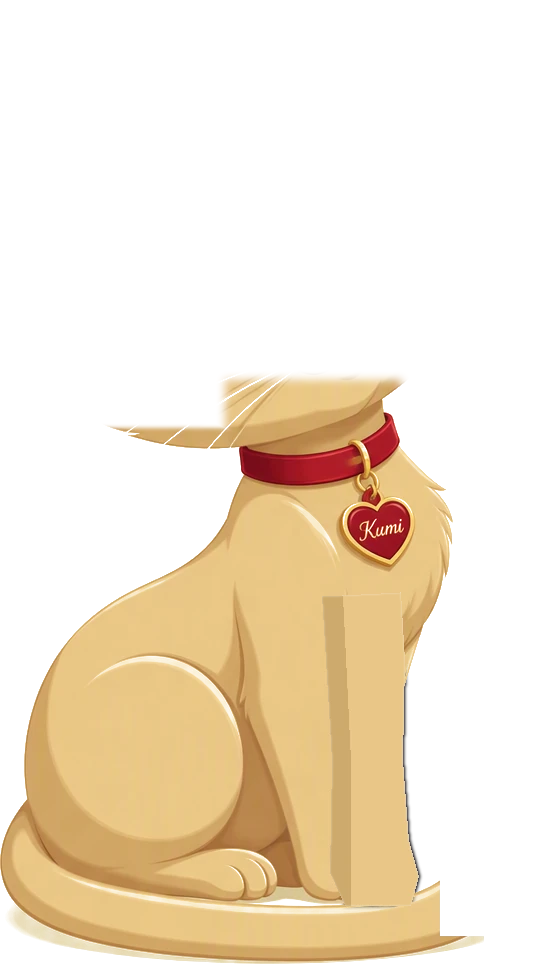
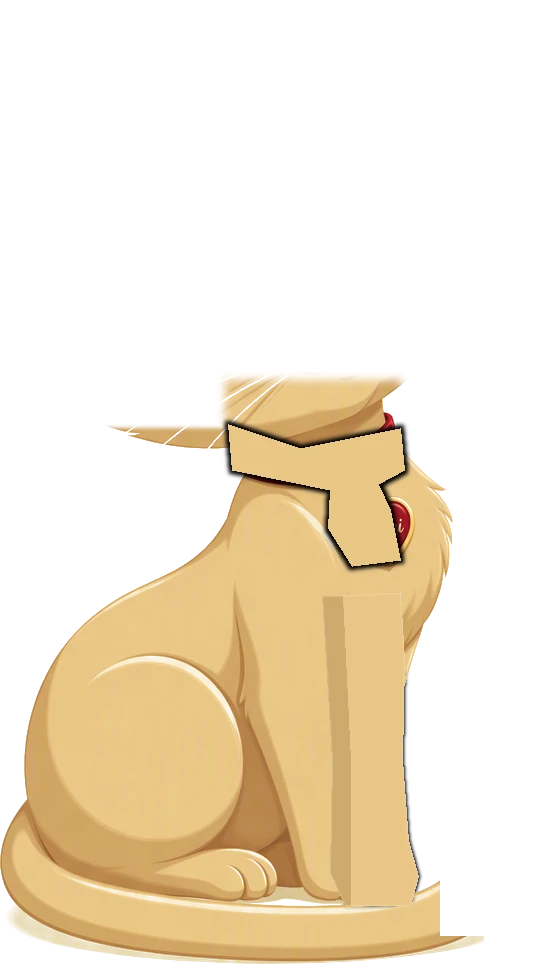
Gattina: posa del lick rivista (testa non affonda più, zampa al muso col gomito alto), collarino che segue la testa, spalla tonda; parametri della posa regolabili dall'URL

Changed region(s): [[0.4156, 0.4357, 0.7718, 0.5913]]

diff --git a/cat.js b/cat.js
@@ -39,13 +39,13 @@
     return d;
   }
 
-  var tail = layer('tail', P.tail), body = layer('body', P.body);
+  var tail = layer('tail', P.tail), body = layer('body', P.body), collar = layer('collar');
   var headWrap = document.createElement('div'); headWrap.className = 'kc-head-wrap';
   headWrap.style.transformOrigin = origin(P.neck);
   var head = layer('head'), earL = layer('ear_l', P.earL), earR = layer('ear_r', P.earR);
   var lidL = lid([160, 268, 280, 372]), lidR = lid([330, 190, 432, 302]);
   var tongue = document.createElement('div'); tongue.className = 'kc-tongue';
-  tongue.style.left = pct(328, W); tongue.style.top = pct(350, H);
+  tongue.style.left = pct(346, W); tongue.style.top = pct(354, H);
   tongue.style.width = pct(18, W); tongue.style.height = pct(20, H);
   headWrap.appendChild(head); headWrap.appendChild(earL); headWrap.appendChild(earR);
   headWrap.appendChild(lidL); headWrap.appendChild(lidR); headWrap.appendChild(tongue);
@@ -54,7 +54,7 @@
   arm.appendChild(upper); arm.appendChild(lower);
 
   stage.innerHTML = '';
-  [tail, body, headWrap, arm].forEach(function (n) { stage.appendChild(n); });
+  [tail, body, collar, headWrap, arm].forEach(function (n) { stage.appendChild(n); });
 
   var reduce = window.matchMedia && window.matchMedia('(prefers-reduced-motion: reduce)').matches;
   var t0 = performance.now();
@@ -66,6 +66,10 @@
   var awake = false;
 
   function ease(t) { return t < .5 ? 2 * t * t : -1 + (4 - 2 * t) * t; }
+  /* La posa del "lick": regolabile dall'indirizzo per provarla
+     (#lick&u=-120&l=-70&s=1.1&hr=16&hx=14&hy=36&c=14). */
+  var Q = {}; location.hash.replace(/^#/, '').split('&').forEach(function (kv) { var p = kv.split('='); Q[p[0]] = parseFloat(p[1]); });
+  var POSE = { u: Q.u || -104, l: Q.l || -82, s: Q.s || 1, hr: Q.hr || 13, hx: Q.hx || 12, hy: Q.hy || 30, c: Q.c || 12 };
   function clamp(v, a, b) { return v < a ? a : v > b ? b : v; }
 
   window.addEventListener('pointermove', function (e) {
@@ -98,12 +102,12 @@
     glance *= .94;
     look.x += (target.x - look.x) * .06;
     look.y += (target.y + glance * .7 - look.y) * .06;
-    var headRot = look.x * 4 + Math.sin(t * .45) * 1.2;
-    var headX = look.x * 6, headY = look.y * 5;
+    var headRot = look.x * 2.5 + Math.sin(t * .45) * .8;
+    var headX = look.x * 5, headY = look.y * 4, collarY = 0;
 
     /* si lecca la zampa: la zampa sale al muso e la testa scende a incontrarla */
     var upRot = 0, lowRot = 0, lowScale = 1, tng = 0;
-    if (location.hash === '#lick') lick = now - 1500;
+    if (location.hash.indexOf('#lick') === 0) lick = now - 1500;
     if (lick < 0 && awake && now - t0 > lickNext) { lick = now; lickNext = now - t0 + 12000 + Math.random() * 7000; }
     if (lick >= 0) {
       var L = (now - lick) / 1000, D = 3.6;
@@ -111,8 +115,8 @@
       else {
         var up = clamp(L / .7, 0, 1), down = clamp((L - (D - .7)) / .7, 0, 1);
         var a = ease(up) * (1 - ease(down));
-        upRot = -38 * a; lowRot = -148 * a; lowScale = 1 + .38 * a;
-        headRot += 14 * a; headX += 8 * a; headY += 58 * a;
+        upRot = POSE.u * a; lowRot = POSE.l * a; lowScale = 1 + (POSE.s - 1) * a;
+        headRot += POSE.hr * a; headX += POSE.hx * a; headY += POSE.hy * a; collarY = POSE.c * a;
         var lk = L - .8;
         if (lk > 0 && lk < 2.0) { tng = Math.max(0, Math.sin(lk * Math.PI * 3)); headY += Math.sin(lk * Math.PI * 3) * 3; }
       }
@@ -122,6 +126,7 @@
     tongue.style.opacity = tng * .95;
     tongue.style.transform = 'translateY(' + (tng * 6) + 'px) scale(' + (.4 + tng * .6) + ')';
     headWrap.style.transform = 'translate(' + headX + 'px,' + headY + 'px) rotate(' + headRot + 'deg)';
+    collar.style.transform = 'translate(' + (headX * .5) + 'px,' + collarY + 'px)';
 
     /* battito di ciglia, a volte doppio */
     if (awake && now - t0 > blinkNext && blink === 0) blink = now;
